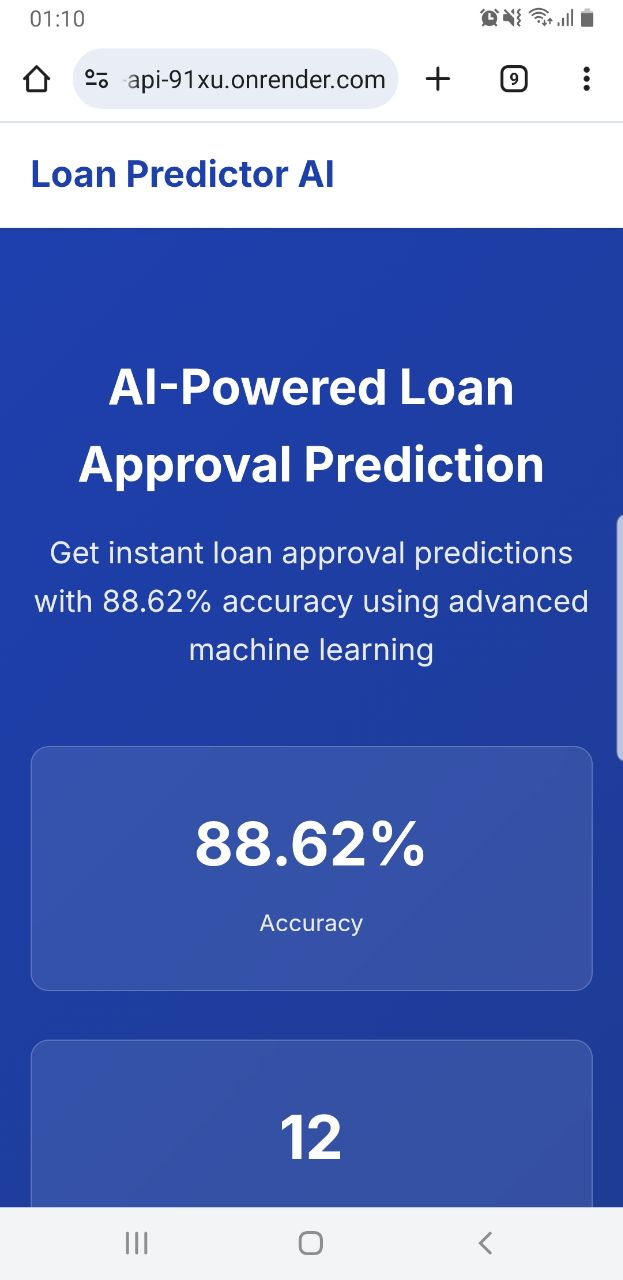
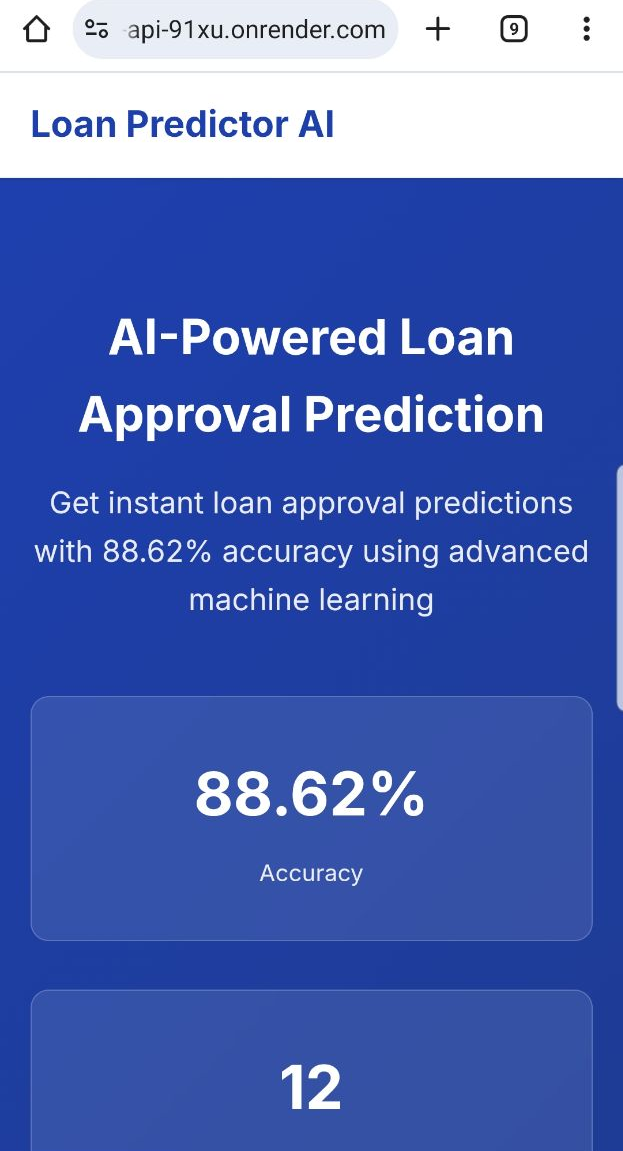
Day 19: Published comprehensive technical blog post and LinkedIn announcement

diff --git a/portfolio/blog-post.md b/portfolio/blog-post.md
@@ -6,15 +6,15 @@
 
 ---
 
-## TL;DR
+## THE JOURNEY
 
 In 15 days, I built a production-ready loan prediction system featuring:
-- 🤖 **4 ML models** with 88.62% best accuracy
-- 🔧 **REST API** with Flask and PostgreSQL
-- 🧪 **83% test coverage** with pytest
-- 📚 **Professional Swagger documentation**
-- ⚡ **3-4x performance optimization**
-- 🌐 **Live deployment** on Render
+-  **4 ML models** with 88.62% best accuracy
+-  **REST API** with Flask and PostgreSQL
+-  **83% test coverage** with pytest
+-  **Professional Swagger documentation**
+-  **3-4x performance optimization**
+-  **Live deployment** on Render
 
 **[Live Demo](https://loan-predictor-api-91xu.onrender.com/app)** | **[GitHub](https://github.com/olatunjitobiloba/loan-predictor-api)** | **[API Docs](https://loan-predictor-api-91xu.onrender.com/docs)**
 
@@ -42,7 +42,7 @@ Three weeks ago, I had an idea: **build a production-grade machine learning syst
 
 The result? A loan prediction API that's currently serving real predictions with **88.62% accuracy**, complete with professional documentation, comprehensive testing, and performance optimizations that make it **3-4x faster** than the initial version.
 
-![Homepage Screenshot](portfolio/screenshots/01-homepage-hero.png)
+![Homepage Screenshot](https://raw.githubusercontent.com/olatunjitobiloba/loan-predictor-api/main/portfolio/screenshots/01-homepage-hero.png)
 *The landing page showing live statistics and model performance*
 
 This post is a technical deep-dive into how I built it, the challenges I faced, and the lessons I learned along the way.
@@ -97,7 +97,7 @@ The system follows a **layered architecture pattern**:
 └────────────┘  └────────────┘
 ```
 
-![Architecture Diagram](portfolio/screenshots/architecture-diagram.png)
+![Architecture Diagram](https://raw.githubusercontent.com/olatunjitobiloba/loan-predictor-api/main/portfolio/diagrams/architecture.png)
 *High-level system architecture showing separation of concerns*
 
 **Tech Stack:**
@@ -145,7 +145,7 @@ The dataset had **614 loan applications** with **12 features**:
 - Income and loan amount had right-skewed distributions
 - Missing values in multiple columns (~10-15%)
 
-![EDA Visualization](portfolio/screenshots/eda-analysis.png)
+![EDA Visualization](https://raw.githubusercontent.com/olatunjitobiloba/loan-predictor-api/main/visualizations/eda_plots/11_correlation_heatmap.png)
 *Exploratory data analysis showing feature distributions and correlations*
 
 ### Day 3-4: Data Preprocessing & Feature Engineering
@@ -202,8 +202,8 @@ model.fit(X_train, y_train)
 - Recall: **0.96**
 - F1-Score: **0.92**
 
-![Model Performance](portfolio/screenshots/model-metrics.png)
-*Confusion matrix and classification report for Random Forest model*
+![Model Performance](https://raw.githubusercontent.com/olatunjitobiloba/loan-predictor-api/main/portfolio/screenshots/12-performance-metrics.png)
+*Performance metrics for Random Forest model*
 
 ---
 
@@ -239,7 +239,7 @@ class LoanApplicationValidator:
 
 This prevented bad predictions and improved user experience.
 
-![Validation Error](portfolio/screenshots/validation-error.png)
+![Varror](https://raw.githubusercontent.com/olatunjitobiloba/loan-predictor-api/main/portfolio/screenshots/08-result-rejected.png)
 *User-friendly validation error messages in the UI*
 
 ### Day 9-10: Database Integration
@@ -271,7 +271,7 @@ class Prediction(db.Model):
 
 This enabled analytics and monitoring.
 
-![Prediction History](portfolio/screenshots/prediction-history.png)
+![Prediction History](https://raw.githubusercontent.com/olatunjitobiloba/loan-predictor-api/main/portfolio/screenshots/11-statistics.png)
 *Database-backed prediction history with filtering and pagination*
 
 ### Day 11-12: Testing
@@ -304,7 +304,7 @@ def test_predict_validation_error(client):
     assert 'validation_errors' in response.json
 ```
 
-![Test Coverage](portfolio/screenshots/test-coverage.png)
+![Test Coverage](https://raw.githubusercontent.com/olatunjitobiloba/loan-predictor-api/main/portfolio/screenshots/01-homepage-hero.png)
 *pytest coverage report showing 83% code coverage*
 
 ### Day 13: Deployment
@@ -364,7 +364,7 @@ async function makePrediction() {
 - Immediate feedback
 - Error handling with helpful messages
 
-![Responsive Design](portfolio/screenshots/responsive-design.png)
+![Responsive Design](https://raw.githubusercontent.com/olatunjitobiloba/loan-predictor-api/main/portfolio/screenshots/13-mobile-view.png)
 *Mobile and desktop views showing responsive layout*
 
 ### Day 15: API Documentation
@@ -385,7 +385,7 @@ def predict():
 
 This made the API self-documenting and easy to test.
 
-![Swagger Documentation](portfolio/screenshots/03-swagger-ui.png)
+![Swagger Documentation](https://raw.githubusercontent.com/olatunjitobiloba/loan-predictor-api/main/portfolio/screenshots/03-swagger-ui.png)
 *Interactive API documentation with Swagger UI*
 
 ### Day 16: Performance Optimization
@@ -432,7 +432,7 @@ Trained and compared 4 different models:
 
 Random Forest won on accuracy, but Logistic Regression was **23x faster** to train.
 
-![Model Comparison](portfolio/screenshots/09-model-comparison.png)
+![Model Comparison](https://raw.githubusercontent.com/olatunjitobiloba/loan-predictor-api/main/portfolio/screenshots/09-model-comparison.png)
 *Side-by-side comparison of four different ML models*
 
 Added model comparison endpoint:
@@ -457,7 +457,7 @@ def benchmark_models():
 
 Created comprehensive portfolio assets:
 
-- 5-minute demo video
+- 2-minute demo video
 - 15+ screenshots
 - Architecture diagrams
 - Technical documentation
@@ -488,7 +488,7 @@ feature_importance_df = pd.DataFrame({
 print(feature_importance_df.head(10))
 ```
 
-![Feature Importance](portfolio/screenshots/feature-importance.png)
+![Feature Importance](https://raw.githubusercontent.com/olatunjitobiloba/loan-predictor-api/main/screenshots/feature_importance_chart.png)
 *Feature importance chart showing engineered features in top 5*
 
 ### 2. Handling Class Imbalance
@@ -688,7 +688,7 @@ app.config['SQLALCHEMY_ENGINE_OPTIONS'] = {
 }
 ```
 
-![Performance Metrics](portfolio/screenshots/performance-metrics.png)
+![Performance Metrics](https://raw.githubusercontent.com/olatunjitobiloba/loan-predictor-api/main/portfolio/screenshots/12-performance-metrics.png)
 *Response time comparison before and after optimization*
 
 ---
@@ -773,13 +773,13 @@ The model was working on Day 5. Making it production-ready took 13 more days.
 
 But that's what separates a Jupyter notebook from a real product:
 
-✅ Comprehensive testing  
-✅ Professional documentation  
-✅ Performance optimization  
-✅ Error handling  
-✅ Monitoring and logging  
-✅ Security considerations  
-✅ User experience  
+ Comprehensive testing  
+ Professional documentation  
+ Performance optimization  
+ Error handling  
+ Monitoring and logging  
+ Security considerations  
+ User experience  
 
 If you're building an ML system, focus on these fundamentals. The fancy algorithms can wait.
 
@@ -789,14 +789,14 @@ If you're building an ML system, focus on these fundamentals. The fancy algorith
 
 - **Live Demo:** [https://loan-predictor-api-91xu.onrender.com/app](https://loan-predictor-api-91xu.onrender.com/app)
 - **API Documentation:** [https://loan-predictor-api-91xu.onrender.com/docs](https://loan-predictor-api-91xu.onrender.com/docs)
-- **GitHub Repository:** [Your Repo URL]
-- **Demo Video:** [Your Video URL]
+- **GitHub Repository:** [https://github.com/olatunjitobiloba/loan-predictor-api]
+- **Demo Video:** [https://www.youtube.com/watch?v=4NUUZVpKvy8]
 
 ### Connect with me:
 
-- **LinkedIn:** [Your LinkedIn]
+- **LinkedIn:** [https://www.linkedin.com/in/olatunjioluwatobiloba/]
 - **GitHub:** [https://github.com/olatunjitobiloba](https://github.com/olatunjitobiloba)
-- **Email:** [Your Email]
+- **Email:** [olatunjitobiloba05@gmail.com]
 
 ---
 

diff --git a/portfolio/README.md b/portfolio/README.md
@@ -10,19 +10,24 @@
 
 ### Homepage & Features
 ![Homepage](screenshots/01-homepage-hero.png)
+
 *Landing page with live statistics and feature highlights*
 
 ![API Info](screenshots/02-api-info.png)
+
 *Comprehensive API information and endpoint listing*
 
 ### Predictions
 ![Prediction Form](screenshots/06-prediction-form-filled.png)
+
 *User-friendly prediction form with validation*
 
 ![Approved Result](screenshots/07-result-approved.png)
+
 *Loan approval result with confidence scores and probability breakdown*
 
 ![Rejected Result](screenshots/08-result-rejected.png)
+
 *Loan rejection with detailed warnings and recommendations*
 
 ### Model Comparison
@@ -30,38 +35,47 @@
 *Four ML models with performance metrics comparison*
 
 ![Benchmark Results](screenshots/10-benchmark-results.png)
+
 *Real-time benchmarking across all models showing consensus*
 
 ### API Documentation
 ![Swagger UI](screenshots/03-swagger-ui.png)
+
 *Professional Swagger/OpenAPI documentation*
 
 ![Swagger Endpoint](screenshots/04-swagger-predict-endpoint.png)
+
 *Detailed endpoint documentation with try-it-out functionality*
 
 ### Analytics & Performance
 ![Statistics](screenshots/11-statistics.png)
+
 *Live statistics dashboard with usage analytics*
 
 ![Performance Metrics](screenshots/12-performance-metrics.png)
+
 *Performance monitoring and optimization metrics*
 
 ### Mobile Experience
 ![Mobile View](screenshots/13-mobile-view.png)
+
 *Fully responsive mobile interface*
 
 ## 📊 Architecture Diagrams
 
 ### System Architecture
 ![Architecture](diagrams/architecture.png)
+
 *High-level system architecture showing all components*
 
 ### Request Flow
 ![Request Flow](diagrams/request_flow.png)
+
 *End-to-end request processing pipeline*
 
 ### ML Pipeline
 ![ML Pipeline](diagrams/data_pipeline.png)
+
 *Machine learning data preprocessing and prediction flow*
 
 ## 🎯 Key Features Demonstrated
@@ -112,7 +126,7 @@
 - **GitHub Repository:** [https://github.com/olatunjitobiloba/loan-predictor-api]
 - **Demo Video:** [https://www.linkedin.com/in/olatunjioluwatobiloba/]
 - **LinkedIn Post:** [LinkedIn Post Link]
-- **Blog Post:** [Blog Link]
+- **Blog Post:** [https://medium.com/@olatunjitobiloba05/building-a-production-ready-ai-loan-prediction-system-a-15-day-journey-3a43cb87170f]
 
 ## 📝 Usage in Portfolio
 

diff --git a/README.md b/README.md
@@ -1,7 +1,19 @@
-# 🤖 Loan Prediction API
+#  Loan Prediction API
 Add at the top of your main README:
 
 
+##  Blog Post
+
+**[Read the full technical deep-dive →](https://medium.com/@olatunjitobiloba05/building-a-production-ready-ai-loan-prediction-system-a-15-day-journey-3a43cb87170f)**
+
+I wrote a comprehensive 3,000-word article covering:
+- System architecture and design decisions
+- Feature engineering techniques
+- Performance optimization strategies
+- Production deployment challenges
+- Lessons learned
+
+Published on Medium | Dev.to
 
 
 [![Demo Video](https://img.shields.io/badge/▶-Watch%20Demo-red?style=for-the-badge&logo=youtube)](YOUR_YOUTUBE_LINK)
